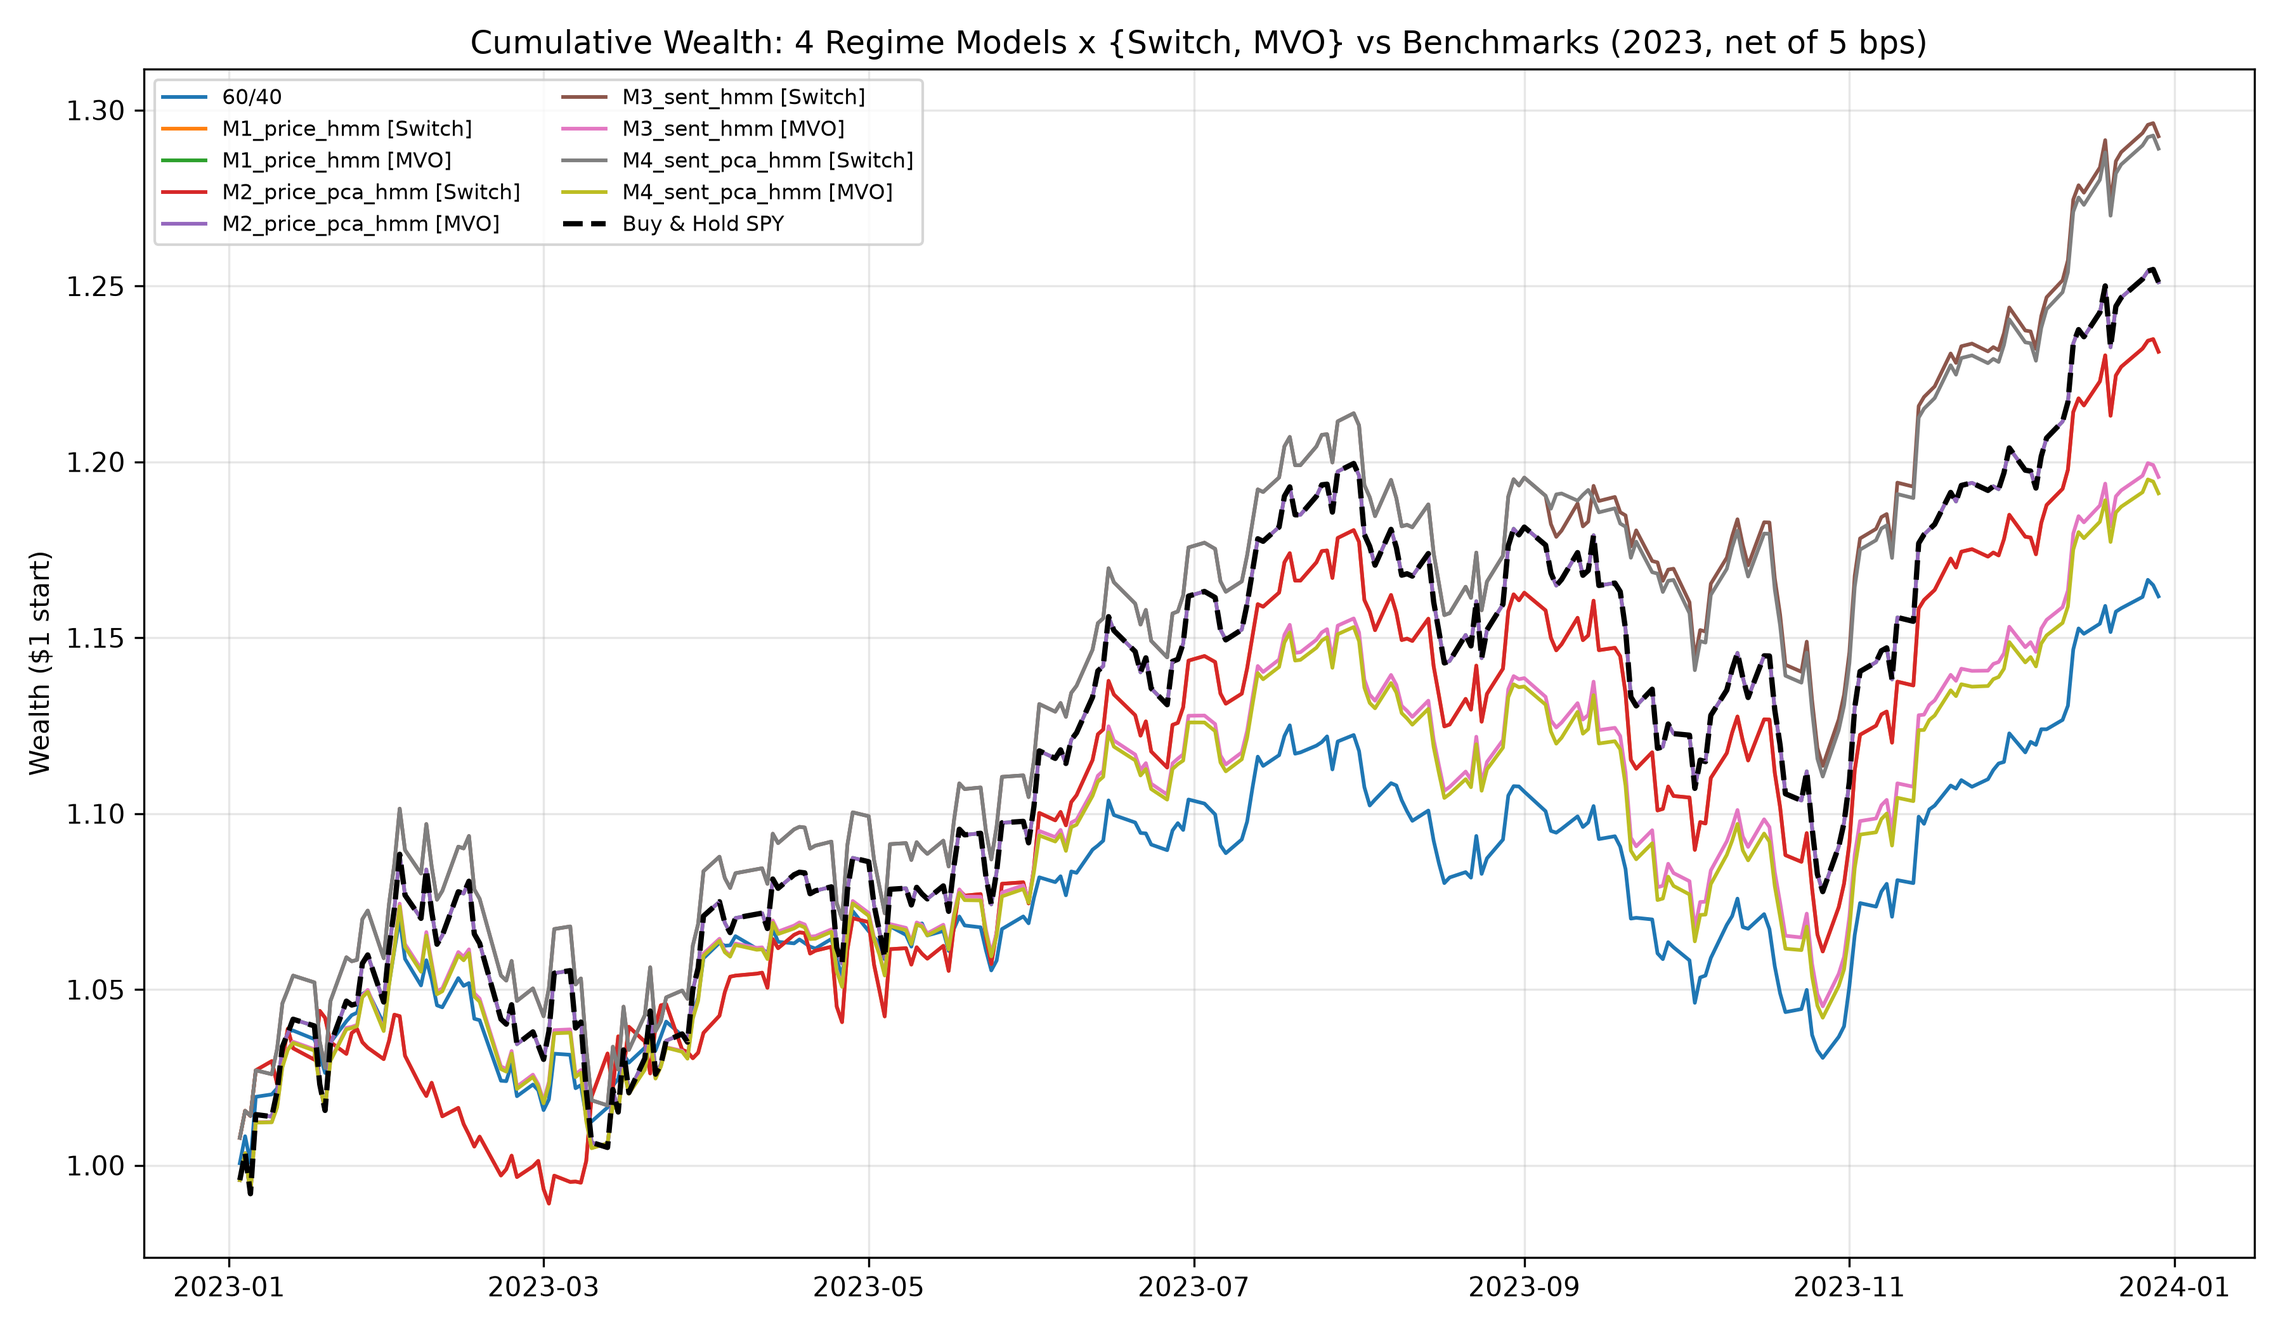
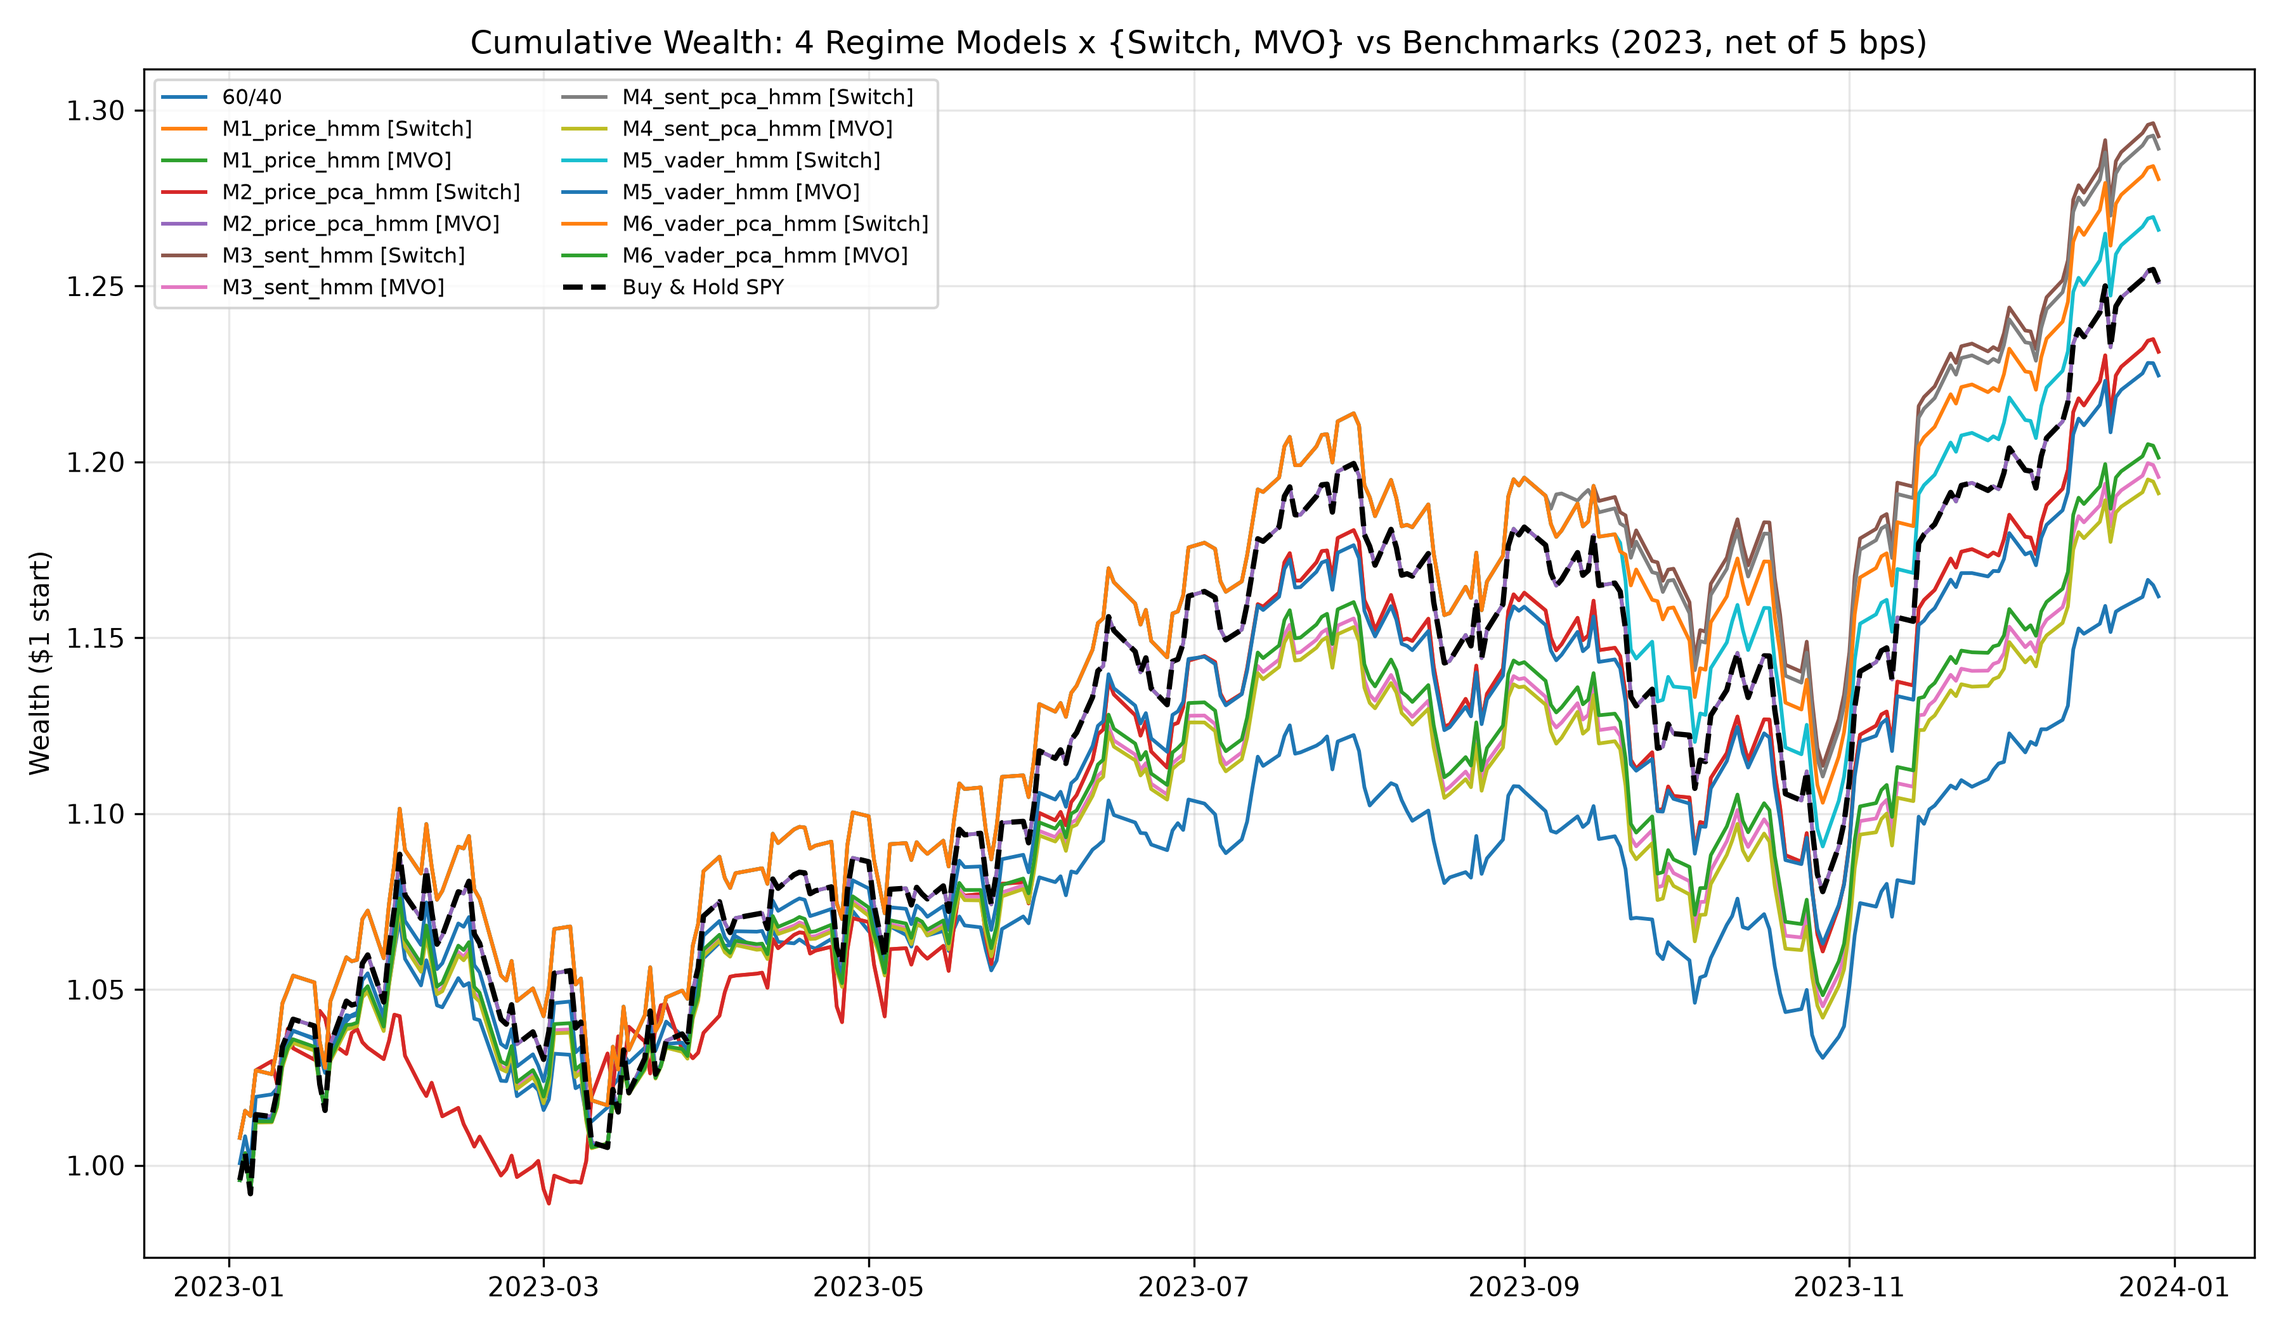
feat: add VADER sentiment baseline models (M5/M6) to the 6-model benchmark

diff --git a/tests/test_vader_models.py b/tests/test_vader_models.py
@@ -1,0 +1,75 @@
+"""VADER baseline scorer + the two VADER regime models (M5/M6)."""
+
+import numpy as np
+import pandas as pd
+
+from conftest import _rng
+
+
+class TestVaderScoring:
+    def test_s_raw_and_confidence_bounds(self):
+        from hmm_sentiment.vader_scoring import vader_scores
+
+        rng = _rng()
+        headlines = [
+            "Fed raises interest rates sharply",
+            "Stocks rally on cooling inflation",
+            "Apple ships new laptop",
+            "Bank failure sparks deposit flight",
+            "",
+        ]
+        out = vader_scores(pd.DataFrame({"headline": headlines}))
+        assert np.all(out["S_raw"].between(-1.0, 1.0))
+        assert np.all(out["confidence"].between(0.0, 1.0))
+        # prob columns must form a simplex (neg + neu + pos = 1)
+        simplex = out[["P_pos", "P_neu", "P_neg"]].sum(axis=1)
+        assert np.allclose(simplex, 1.0, atol=1e-6)
+
+    def test_scores_are_cached_and_stable(self):
+        from hmm_sentiment.vader_scoring import vader_scores
+
+        df = pd.DataFrame({"headline": ["Hot CPI print spooks markets"] * 3})
+        a = vader_scores(df)
+        b = vader_scores(df)
+        assert np.allclose(a["S_raw"], b["S_raw"])
+
+
+class TestVaderRegimeModels:
+    def _feat(self):
+        rng = _rng()
+        n = 600
+        idx = pd.bdate_range("2021-01-04", periods=n)
+        half = n // 2
+        vol = np.where(np.arange(n) < half, 0.008, 0.025)
+        drift = np.where(np.arange(n) < half, 0.0006, -0.0008)
+        rets = rng.normal(drift, vol)
+        vix = np.where(np.arange(n) < half, rng.normal(15, 1.5, n).clip(9), rng.normal(30, 4.0, n).clip(14))
+        sent = rng.normal(0, 0.3, n)
+        return pd.DataFrame(
+            {
+                "SPY_ret": rets,
+                "realized_vol": pd.Series(rets, index=idx).rolling(20).std().values * np.sqrt(252),
+                "VIX_close": vix,
+                "sent_w_v": sent,
+                "sent_w_ema5_v": pd.Series(sent, index=idx).ewm(span=5).mean().values,
+                "sent_disp_v": np.abs(rng.normal(0.2, 0.05, n)),
+            },
+            index=idx,
+        ).dropna()
+
+    def test_m5_m6_fit_valid_and_canonicalized(self):
+        from hmm_sentiment.regime_models import FEATURE_SETS, fit_regime_models
+
+        feat = self._feat()
+        sets = {k: v for k, v in FEATURE_SETS.items() if k.startswith("M5") or k.startswith("M6")}
+        models = fit_regime_models(feat, sets, random_state=42)
+        for name in ["M5_vader_hmm", "M6_vader_pca_hmm"]:
+            res = models[name]
+            t = res["model"].transmat_
+            assert np.allclose(t.sum(axis=1), 1.0, atol=1e-8)
+            assert res["model"].monitor_.converged
+            post = res["posterior_bull"]
+            assert np.all(post.dropna().between(0.0, 1.0))
+            vix = feat["VIX_close"].values
+            states = res["states"]
+            assert vix[states == 1].mean() > vix[states == 0].mean(), name

diff --git a/src/hmm_sentiment/vader_scoring.py b/src/hmm_sentiment/vader_scoring.py
@@ -1,0 +1,71 @@
+"""VADER sentiment baseline scoring (Hutto & Gilbert 2014, ICWSM).
+
+Same weighting architecture as the FinBERT layer: VADER's {neg, neu, pos}
+probabilities feed the identical entropy-based confidence and P(pos) - P(neg)
+sentiment, so M5/M6 differ from M3/M4 ONLY in the sentiment model — a clean
+domain-transformer vs general-lexicon ablation. Cached by sha1(text).
+"""
+
+import hashlib
+
+import numpy as np
+import pandas as pd
+
+from .config import CACHE_DIR
+from .scoring import confidence_from_probs, sentiment_raw
+
+_CACHE_FILE = f"{CACHE_DIR}/vader_scores.parquet"
+
+
+def _text_key(text):
+    return hashlib.sha1(str(text).encode("utf-8")).hexdigest()
+
+
+def _get_analyzer():
+    from vaderSentiment.vaderSentiment import SentimentIntensityAnalyzer
+
+    return SentimentIntensityAnalyzer()
+
+
+def vader_scores(articles, text_col="headline"):
+    """Return copy of `articles` with P_pos, P_neu, P_neg, S_raw, confidence
+    from VADER. Same column contract as finbert_scoring.score_articles."""
+    texts = articles[text_col].astype(str).tolist()
+    keys = [_text_key(t) for t in texts]
+
+    cache = {}
+    try:
+        cached = pd.read_parquet(_CACHE_FILE)
+        for k, p in zip(cached["key"], cached[["P_pos", "P_neu", "P_neg"]].values):
+            vec = np.asarray(p, dtype=float)
+            if vec.sum() <= 0:  # sanitize legacy degenerate entries
+                vec = np.array([0.0, 1.0, 0.0])
+            cache[k] = vec
+    except Exception:
+        pass
+
+    missing = sorted({k for k in keys if k not in cache})
+    if missing:
+        sia = _get_analyzer()
+        key_to_text = {}
+        for k, t in zip(keys, texts):
+            if k in set(missing):
+                key_to_text[k] = t
+        for k in missing:
+            p = sia.polarity_scores(key_to_text[k])
+            vec = np.array([p["pos"], p["neu"], p["neg"]], dtype=float)
+            if vec.sum() <= 0:  # empty/degenerate text -> neutral
+                vec = np.array([0.0, 1.0, 0.0])
+            # VADER's neg/neu/pos already sum to 1 — a valid probability simplex
+            cache[k] = vec
+
+        pd.DataFrame(
+            [{"key": k, "P_pos": cache[k][0], "P_neu": cache[k][1], "P_neg": cache[k][2]} for k in cache]
+        ).to_parquet(_CACHE_FILE)
+
+    P = np.array([cache[k] for k in keys])
+    out = articles.copy().reset_index(drop=True)
+    out["P_pos"], out["P_neu"], out["P_neg"] = P[:, 0], P[:, 1], P[:, 2]
+    out["S_raw"] = sentiment_raw(P)
+    out["confidence"] = confidence_from_probs(P)
+    return out

diff --git a/scripts/run_pipeline.py b/scripts/run_pipeline.py
@@ -32,7 +32,8 @@ from hmm_sentiment.plots import (
     plot_regime_comparison,
     plot_transition_lead_time,
 )
-from hmm_sentiment.regime_models import fit_regime_models
+from hmm_sentiment.regime_models import FEATURE_SETS, fit_regime_models
+from hmm_sentiment.vader_scoring import vader_scores
 
 STEPS_LOG = f"{TABLE_DIR}/pipeline_log.json"
 
@@ -55,10 +56,22 @@ def build_features():
     log_step("LLM importance rating")
     scored["importance"] = rate_importance(scored["headline"].tolist())
 
+    log_step("VADER scoring (baseline)")
+    v_scored = vader_scores(news)
+    v_scored["importance"] = rate_importance(v_scored["headline"].tolist())  # all cached
+
     log_step("close-safeguard mapping + daily features")
     merged = map_articles_to_trading_days(scored, market.index)
     daily_news = build_daily_news_features(merged, market.index)
+
+    v_merged = map_articles_to_trading_days(v_scored, market.index)
+    v_daily = build_daily_news_features(v_merged, market.index)
+    v_daily = v_daily.rename(
+        columns={"sent_w": "sent_w_v", "sent_w_ema5": "sent_w_ema5_v", "sent_disp": "sent_disp_v"}
+    )
+
     feat = market.join(daily_news, how="left")
+    feat = feat.join(v_daily[["sent_w_v", "sent_w_ema5_v", "sent_disp_v"]], how="left")
     log_step(f"features rows={len(feat)} cols={list(feat.columns)}")
     return market, feat, merged, scored
 
@@ -128,8 +141,9 @@ def run_all():
     )
     metrics.to_csv(f"{TABLE_DIR}/metrics_summary.csv", index=False)
 
-    # diagnostics: transition matrices + regime stats
+    # diagnostics: transition matrices + regime stats + cross-model agreement
     diag = {}
+    pb = {n: res["posterior_bull"] for n, res in models.items()}
     for name, res in models.items():
         diag[name] = {
             "transmat": res["model"].transmat_.tolist(),
@@ -140,6 +154,9 @@ def run_all():
             "lead_carried_in": leads[name]["carried_in"],
             "bear_days_in_2023": int((states_by_model[name] == 1).sum()),
         }
+    for a, b in [("M3_sent_hmm", "M5_vader_hmm"), ("M4_sent_pca_hmm", "M6_vader_pca_hmm"), ("M1_price_hmm", "M3_sent_hmm")]:
+        if a in pb and b in pb:
+            diag[f"posterior_corr::{a}::{b}"] = round(float(pb[a].corr(pb[b])), 4)
     with open(f"{TABLE_DIR}/model_diagnostics.json", "w") as f:
         json.dump(diag, f, indent=2)
 

diff --git a/src/hmm_sentiment/plots.py b/src/hmm_sentiment/plots.py
@@ -15,12 +15,16 @@ MODEL_LABELS = {
     "M2_price_pca_hmm": "Model 2: Price PCA-HMM",
     "M3_sent_hmm": "Model 3: Sentiment HMM",
     "M4_sent_pca_hmm": "Model 4: Sentiment PCA-HMM",
+    "M5_vader_hmm": "Model 5: VADER HMM",
+    "M6_vader_pca_hmm": "Model 6: VADER PCA-HMM",
 }
 COLORS = {
     "M1_price_hmm": "#1f77b4",
     "M2_price_pca_hmm": "#2ca02c",
     "M3_sent_hmm": "#d62728",
     "M4_sent_pca_hmm": "#9467bd",
+    "M5_vader_hmm": "#ff7f0e",
+    "M6_vader_pca_hmm": "#8c564b",
 }
 
 
@@ -45,7 +49,10 @@ def plot_cumulative_returns(curves, spy_bh, path=None):
 
 def plot_regime_comparison(spy_price, model_states, path=None):
     """model_states: {model: states Series} with 0=bull, 1=bear (values in {0,1})."""
-    fig, axes = plt.subplots(2, 2, figsize=(14, 8), sharex=True)
+    n = len(model_states)
+    ncols = 3 if n > 4 else 2
+    nrows = int(np.ceil(n / ncols))
+    fig, axes = plt.subplots(nrows, ncols, figsize=(6.5 * ncols, 4 * nrows), sharex=True, squeeze=False)
     for ax, (name, states) in zip(axes.ravel(), model_states.items()):
         ax.plot(spy_price.index, spy_price.values, lw=0.9, color="black")
         bear = states.values == 1
@@ -57,6 +64,8 @@ def plot_regime_comparison(spy_price, model_states, path=None):
         ax.grid(alpha=0.3)
         ax.legend(fontsize=7, loc="upper left")
         ax.set_ylabel("SPY")
+    for ax in axes.ravel()[n:]:
+        ax.axis("off")
     fig.suptitle("Regime Classification: SPY with Bear-State Shading (2023)")
     fig.tight_layout(rect=(0, 0, 1, 0.97))
     out = path or f"{FIG_DIR}/regime_classification_comparison.png"

diff --git a/src/hmm_sentiment/regime_models.py b/src/hmm_sentiment/regime_models.py
@@ -17,12 +17,17 @@ MARKET_FEATURES = ["SPY_ret", "realized_vol", "VIX_close"]
 # gaps, which made the HMM split states on news-coverage presence instead of
 # market regime (documented in README). It is still computed and reported.
 SENTIMENT_FEATURES = ["sent_w", "sent_w_ema5", "sent_disp"]
+# VADER baseline: identical architecture, lexicon sentiment instead of FinBERT
+# (`_v` suffix columns built by the pipeline from vader_scoring output).
+SENTIMENT_FEATURES_VADER = ["sent_w_v", "sent_w_ema5_v", "sent_disp_v"]
 
 FEATURE_SETS = {
     "M1_price_hmm": (MARKET_FEATURES, False),
     "M2_price_pca_hmm": (MARKET_FEATURES, True),
     "M3_sent_hmm": (MARKET_FEATURES + SENTIMENT_FEATURES, False),
     "M4_sent_pca_hmm": (MARKET_FEATURES + SENTIMENT_FEATURES, True),
+    "M5_vader_hmm": (MARKET_FEATURES + SENTIMENT_FEATURES_VADER, False),
+    "M6_vader_pca_hmm": (MARKET_FEATURES + SENTIMENT_FEATURES_VADER, True),
 }
 
 def _fit_one(feat, cols, use_pca, random_state):

diff --git a/README.md b/README.md
@@ -20,6 +20,10 @@ The original research proposal lives at [`docs/RESEARCH_PROPOSAL.md`](docs/RESEA
 | M3 Sentiment HMM [MVO] | 19.7% | 10.9% | 1.71 | −9.5% | 2.07 | none |
 | **M4 Sentiment PCA-HMM [Switch]** | 29.2% | 12.6% | **2.10** | −8.5% | 3.43 | none |
 | M4 Sentiment PCA-HMM [MVO] | 19.3% | 10.8% | 1.69 | −9.6% | 2.00 | none |
+| M5 VADER HMM [Switch] | 26.8% | 12.9% | 1.91 | −10.1% | 2.64 | none |
+| M5 VADER HMM [MVO] | 22.7% | 11.8% | 1.79 | −9.6% | 2.35 | none |
+| M6 VADER PCA-HMM [Switch] | 28.3% | 12.7% | 2.02 | −9.1% | 3.10 | none |
+| M6 VADER PCA-HMM [MVO] | 20.3% | 11.0% | 1.73 | −9.6% | 2.11 | none |
 
 ![Cumulative returns](outputs/figures/cumulative_returns_all_models.png)
 
@@ -48,15 +52,25 @@ The original research proposal lives at [`docs/RESEARCH_PROPOSAL.md`](docs/RESEA
   The performance edge is real net-of-cost, but it is not yet cleanly attributable to
   news sentiment rather than residual coverage structure. Fixing that attribution
   (covered-days-only fitting or a denser corpus) is the obvious next step.
+- **VADER baseline (M5/M6) sharpens the mechanism finding.** Swapping FinBERT for the
+  VADER lexicon (identical weighting architecture) shifts results only slightly:
+  Switch Sharpe 1.91 (M5) / 2.02 (M6) vs 2.11 / 2.10 for FinBERT. Posterior
+  correlations: M3↔M5 = 0.96, **M4↔M6 = 0.97** — the PCA sentiment models land on
+  nearly the SAME regimes regardless of sentiment model. Combined with M1↔M3 = 0.40,
+  this says the sentiment models' regime signal is driven by *when news exists and
+  how it is structured*, not by sentiment quality; FinBERT still ranks ≥ VADER
+  everywhere, consistent with the literature (domain transformer > general lexicon).
 
-## The 4 models
+## The 6 models
 
-| Model | Inputs | Architecture |
-|---|---|---|
-| M1 (baseline) | SPY return, 20d realized vol, VIX | 2-state Gaussian HMM |
-| M2 (baseline) | same, PCA(95%) first | 2-state Gaussian HMM |
-| M3 (proposed) | market + sentiment features | 2-state Gaussian HMM |
-| M4 (proposed) | market + sentiment features, PCA(95%) | 2-state Gaussian HMM |
+| Model | Sentiment source | Inputs | Architecture |
+|---|---|---|---|
+| M1 (baseline) | — | SPY return, 20d realized vol, VIX | 2-state Gaussian HMM |
+| M2 (baseline) | — | same, PCA(95%) first | 2-state Gaussian HMM |
+| M3 (proposed) | FinBERT | market + sentiment features | 2-state Gaussian HMM |
+| M4 (proposed) | FinBERT | market + sentiment features, PCA(95%) | 2-state Gaussian HMM |
+| M5 (baseline) | VADER lexicon | market + sentiment features | 2-state Gaussian HMM |
+| M6 (baseline) | VADER lexicon | market + sentiment features, PCA(95%) | 2-state Gaussian HMM |
 
 Sentiment features: daily importance-weighted sentiment `S_t = Σ(S_raw,i·C_i·I_i)/(Σ C_i·I_i + 1e-6)`,
 its 5-day EMA, and sentiment dispersion, where `S_raw = P(pos) − P(neg)` (FinBERT),
@@ -132,7 +146,8 @@ src/hmm_sentiment/    config, market_data, news_corpus, finbert_scoring,
                       llm_importance, daily_features, regime_models,
                       backtest, metrics, plots
 scripts/run_pipeline.py   end-to-end orchestrator
-tests/                34 unit tests (lookahead, bounds, HMM validity, MVO constraints)
+tests/                37 unit tests (lookahead, bounds, HMM validity, MVO constraints,
+                      VADER scorer, coverage-gap regression)
 outputs/figures/      4 publication-grade PNGs (300 DPI)
 outputs/tables/       metrics_summary.csv, model_diagnostics.json, article_scores_sample.csv
 docs/                 original research proposal

diff --git a/papers/README.md b/papers/README.md
@@ -12,6 +12,14 @@ with the correct w17182).
 | `nystrup_2017_dynamic_portfolio_hmm.pdf` | *Dynamic Portfolio Optimization Across Hidden Market Regimes* (Nystrup, Madsen & Lindström, Quantitative Finance) | Regime-based allocation baseline |
 | `plos_one_2025_pca_hmm_sentiment.pdf` | *Momentum, volume and investor sentiment study for U.S. technology sector stocks — a hidden Markov model based principal component analysis* (Li, PLOS ONE 2025, e0331658) | Nearest-neighbor work (PCA-HMM + sentiment), differentiated in README |
 
+Cited without PDF (both public mirrors dead at fetch time; ICWSM/AAAI paywall):
+**VADER — Hutto & Gilbert (2014), "VADER: A Parsimonious Rule-based Model for
+Sentiment Analysis of Social Media Text", ICWSM 8(1), DOI 10.1609/icwsm.v8i1.14550.**
+Used as the lexicon-sentiment baseline (M5/M6). Its published gold-standard
+correlations on social-media benchmarks (compound score) motivate the same
+simplex/probability treatment we apply; our usage follows the reference
+implementation `vaderSentiment` v3.3.2.
+
 ## Extracted baseline numbers our results are checked against
 
 ### 1. FinBERT sentiment quality (Araci 2019, Table: Financial PhraseBank)
